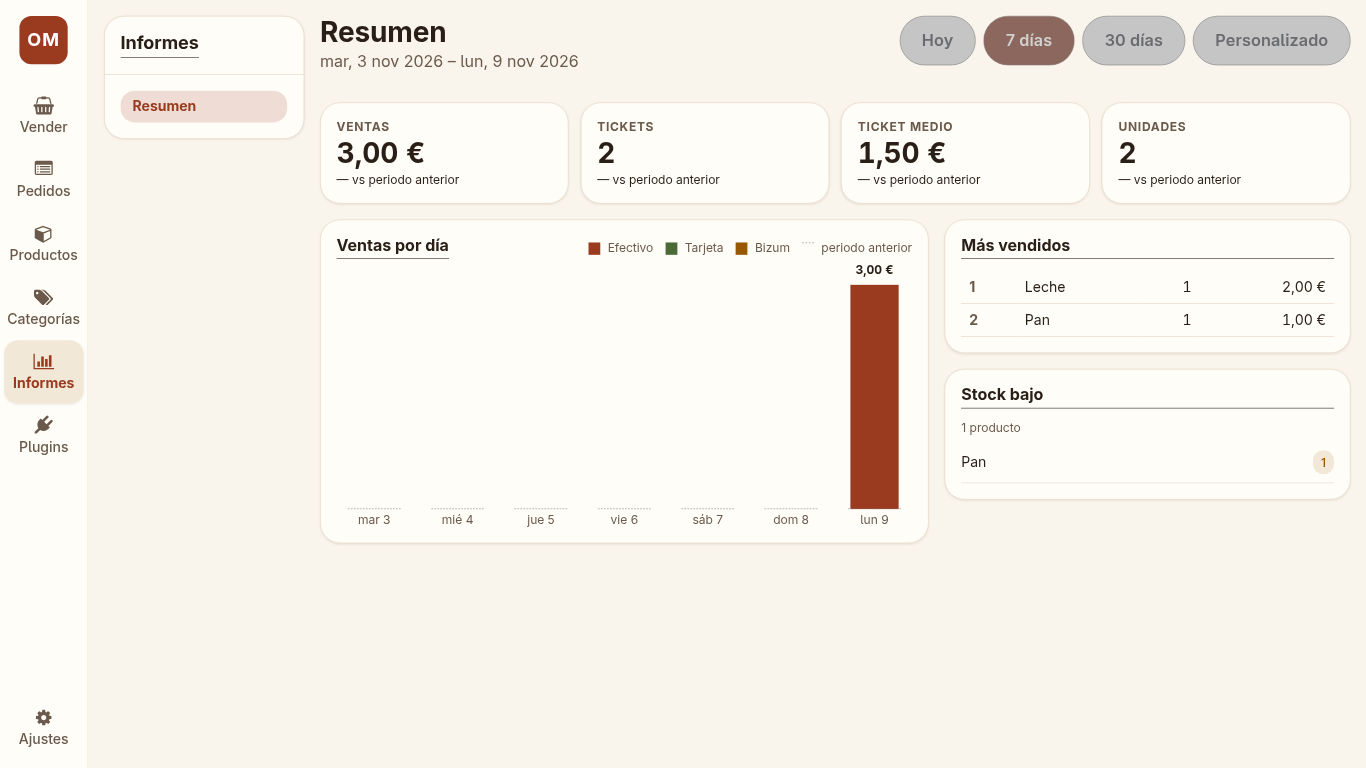
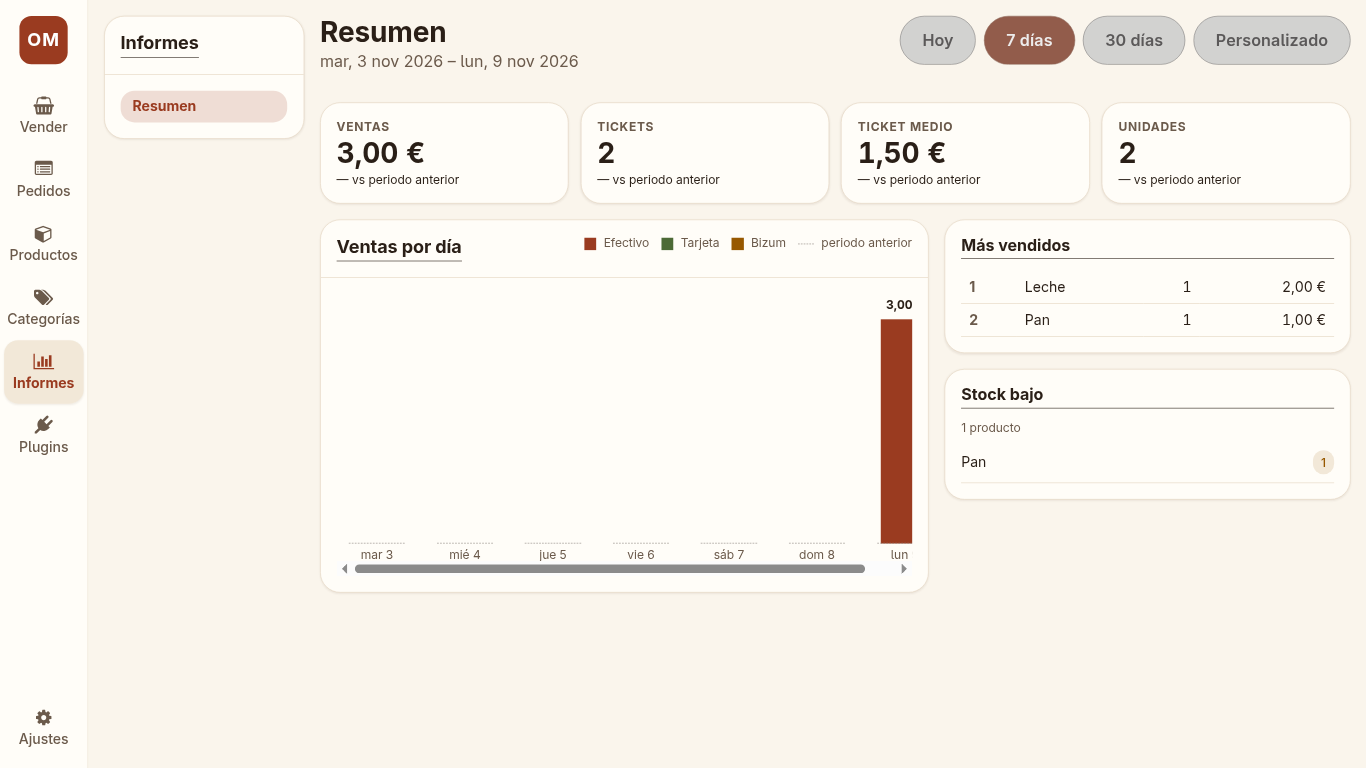
Open on Vender and keep the daily chart inside its card.
A 30-day range was painting every amount and weekday on top of the next column, and the shop was starting on Informes instead of the first rail item.

diff --git a/src/openMarket/user_interface/report/SummaryView.js b/src/openMarket/user_interface/report/SummaryView.js
@@ -4,7 +4,9 @@ import Card from '../components/Card';
 import Badge from '../components/Badge';
 import EmptyState from '../components/EmptyState';
 import {formatMoney} from '../i18n/money';
-import {formatChange, formatDay, formatStock, formatUnits} from './format';
+import {formatChange, formatDay, formatDayNumber, formatStock, formatUnits} from './format';
+
+const COMPACT_DAYS = 12;
 
 /**
  * @param {{summary: object}} props
@@ -21,11 +23,7 @@ export default function SummaryView(props) {
       </div>
       <div className="report-split">
         <div className="report-chart-card">
-          <Card>
-            <div className="report-chart-head">
-              <h2 className="report-section-title">Ventas por día</h2>
-              <Legend />
-            </div>
+          <Card title="Ventas por día" actions={<Legend />}>
             <DailyChart days={summary.days} />
           </Card>
         </div>
@@ -92,24 +90,30 @@ function DailyChart(props) {
   if (!days.length || max === 0) {
     return <EmptyState title="Sin ventas en este periodo" />;
   }
+  const compact = days.length > COMPACT_DAYS;
+  const className = compact ? 'report-columns is-compact' : 'report-columns';
   return (
-    <div className="report-columns">
-      {days.map(day => (
-        <DayColumn key={day.date} day={day} max={max} />
-      ))}
+    <div className="report-chart-scroll">
+      <div className={className}>
+        {days.map(day => (
+          <DayColumn key={day.date} day={day} max={max} compact={compact} />
+        ))}
+      </div>
     </div>
   );
 }
 
 /**
- * @param {{day: {date: string, cashCents: number, cardCents: number, bizumCents: number, previousTotalCents: number}, max: number}} props
+ * @param {{day: {date: string, cashCents: number, cardCents: number, bizumCents: number, previousTotalCents: number}, max: number, compact: boolean}} props
  */
 function DayColumn(props) {
   const day = props.day;
   const total = dayTotal(day);
+  const amount = total ? formatMoney(Money.ofCents(total)) : '';
+  const label = props.compact ? formatDayNumber(day.date) : formatDay(day.date);
   return (
-    <div className="report-column">
-      <p className="report-column-total">{total ? formatMoney(Money.ofCents(total)) : ' '}</p>
+    <div className="report-column" title={amount ? label + ' ' + amount : label}>
+      {props.compact ? null : <p className="report-column-total">{amount || ' '}</p>}
       <div className="report-plot">
         <div className="report-stack">
           <Segment className="report-segment-bizum" cents={day.bizumCents} max={props.max} />
@@ -118,7 +122,7 @@ function DayColumn(props) {
         </div>
         <div className="report-previous" style={{bottom: percent(day.previousTotalCents, props.max)}} />
       </div>
-      <p className="report-column-day">{formatDay(day.date)}</p>
+      <p className="report-column-day">{label}</p>
     </div>
   );
 }

diff --git a/src/openMarket/user_interface/style/components/reports.scss b/src/openMarket/user_interface/style/components/reports.scss
@@ -113,6 +113,21 @@
   min-width: 0;
 }
 
+.report-chart-card .om-card {
+  min-width: 0;
+  overflow: hidden;
+}
+
+.report-chart-card .om-card-header {
+  align-items: flex-start;
+}
+
+.report-chart-card .om-card-actions {
+  margin-left: auto;
+  justify-content: flex-end;
+  max-width: 100%;
+}
+
 .report-side {
   flex: 1;
   min-width: 0;
@@ -121,45 +136,56 @@
   gap: var(--om-space-4);
 }
 
-.report-chart-head,
-.report-legend {
-  display: flex;
-  flex-wrap: wrap;
-  align-items: center;
-  justify-content: space-between;
-  gap: var(--om-space-2) var(--om-space-3);
-}
-
 .report-section-title {
   margin: 0 0 var(--om-space-3);
   font-size: var(--om-font-size-md);
 }
 
-.report-chart-head .report-section-title {
-  margin: 0;
-}
-
 .report-legend {
+  display: flex;
+  flex-wrap: wrap;
   justify-content: flex-end;
+  align-items: center;
+  gap: var(--om-space-2) var(--om-space-3);
   margin: 0;
   padding: 0;
   list-style: none;
   color: var(--om-color-text-muted);
 }
 
+.report-legend li {
+  white-space: nowrap;
+}
+
+.report-chart-scroll {
+  min-width: 0;
+  overflow-x: auto;
+}
+
 .report-columns {
   display: flex;
+  width: max-content;
+  min-width: 100%;
   gap: var(--om-space-2);
   align-items: flex-end;
 }
 
+.report-columns.is-compact {
+  gap: var(--om-space-1);
+}
+
 .report-column {
-  flex: 1;
-  min-width: 0;
+  flex: 1 0 calc(var(--om-space-8) * 2);
+  min-width: calc(var(--om-space-8) * 2);
   display: flex;
   flex-direction: column;
   align-items: center;
   gap: var(--om-space-1);
+}
+
+.report-columns.is-compact .report-column {
+  flex: 0 0 var(--om-space-6);
+  min-width: var(--om-space-6);
 }
 
 .report-plot {
@@ -176,9 +202,18 @@
   align-items: center;
 }
 
+.report-column-total,
+.report-column-day {
+  width: 100%;
+  overflow: hidden;
+  text-overflow: ellipsis;
+  white-space: nowrap;
+  text-align: center;
+}
+
 .report-segment {
-  width: calc(var(--om-space-8) + var(--om-space-2));
-  max-width: 100%;
+  width: 100%;
+  max-width: calc(var(--om-space-8) + var(--om-space-2));
 }
 
 .report-segment-cash {
@@ -222,6 +257,9 @@
 }
 
 .report-swatch-previous {
+  width: var(--om-space-4);
+  height: 0;
+  background: transparent;
   border-top: var(--om-button-border-width) dashed var(--om-color-border-strong);
 }
 

diff --git a/e2e/shell.spec.js b/e2e/shell.spec.js
@@ -20,16 +20,12 @@ test('navigates from the rail with a click or a shortcut', async () => {
   try {
     await window.setViewportSize({width: 1366, height: 768});
     await expect(window.getByRole('link', {name: 'Saltar al contenido'})).toHaveCount(0);
-    await expect.poll(async () => window.evaluate(() => {
-      const active = document.activeElement;
-      if (!active || active === document.body || active === document.documentElement) {
-        return 'none';
-      }
-      return getComputedStyle(active).outlineStyle;
-    })).toBe('none');
     await expect(window.locator('.header')).toHaveCount(0);
     await expect(window.locator('.app-version')).toHaveCount(0);
     await expect(window.getByRole('heading', {name: 'OpenMarket', exact: true})).toHaveCount(0);
+    await expect(window.getByRole('heading', {name: 'Vender'})).toBeVisible();
+    await expect(window.getByRole('link', {name: 'Vender', exact: true})).toHaveAttribute('aria-current', 'page');
+    await expect(window.getByLabel('Buscar o escanear')).toBeFocused();
     const mark = window.locator('.nav-rail-mark');
     await expect(mark).toHaveText('OM');
     await expect(mark).toHaveAttribute('aria-label', 'OpenMarket');
@@ -59,14 +55,13 @@ test('navigates from the rail with a click or a shortcut', async () => {
     for (const screen of SCREENS) {
       await window.getByRole('link', {name: screen.link, exact: true}).click();
       await expect(window.getByRole('heading', {name: screen.heading})).toBeVisible();
-      if (screen.link === 'Vender') {
-        await expect(window.getByLabel('Buscar o escanear')).toBeFocused();
-      }
       await expect(window.getByRole('link', {name: screen.link, exact: true})).toHaveAttribute('aria-current', 'page');
       await window.screenshot({path: path.join('test-results', `shell-${screen.shot}.png`)});
     }
 
     await expect(window.getByRole('link', {name: 'Takings', exact: true})).toHaveCount(0);
+    await window.getByRole('link', {name: 'Vender', exact: true}).click();
+    await expect(window.getByLabel('Buscar o escanear')).toBeFocused();
 
     await window.getByRole('link', {name: 'Ajustes', exact: true}).click();
     await expect(window.getByRole('heading', {name: 'Ajustes'})).toBeVisible();

diff --git a/src/openMarket/user_interface/routes.js b/src/openMarket/user_interface/routes.js
@@ -1,5 +1,5 @@
 import React from 'react';
-import { Route, IndexRoute, Redirect } from 'react-router';
+import { Route, IndexRedirect, Redirect } from 'react-router';
 import App from './containers/App';
 import HomePage from './home/ReduxConnector';
 import ReportPage from './report/ReduxConnector';
@@ -19,7 +19,8 @@ const showGallery = isGalleryEnabled({
 
 function childRoutes() {
   const routes = [
-    <IndexRoute key="home" component={ReportPage} />,
+    <IndexRedirect key="home" to="/create_order" />,
+    <Route key="informes" path="/informes" component={ReportPage} />,
     <Route key="takings" path="/takings" component={HomePage} />,
     <Route key="create-product" path="/create_product" component={ProductListing} />,
     <Route key="list-products" path="/list_products" component={ProductListing} />,

diff --git a/src/test/openMarket/user_interface/containers/NavRail.spec.js b/src/test/openMarket/user_interface/containers/NavRail.spec.js
@@ -87,7 +87,7 @@ describe('NavRail', () => {
       '#/list_orders',
       '#/list_products',
       '#/categories',
-      '#/',
+      '#/informes',
       '#/plugins',
       '#/settings'
     ]);
@@ -125,7 +125,8 @@ describe('NavRail', () => {
 
   it('marks the active item for the current location', () => {
     expect(currentHref(renderAt('/list_orders'))).to.equal('#/list_orders');
-    expect(currentHref(renderAt('/'))).to.equal('#/');
+    expect(currentHref(renderAt('/informes'))).to.equal('#/informes');
+    expect(anchors(renderAt('/')).filter(anchor => anchor.current)).to.have.length(0);
     expect(anchors(renderAt('/takings')).filter(anchor => anchor.current)).to.have.length(0);
     expect(currentHref(renderAt('/settings'))).to.equal('#/settings');
   });

diff --git a/src/openMarket/user_interface/report/format.js b/src/openMarket/user_interface/report/format.js
@@ -51,6 +51,16 @@ export function formatDay(iso) {
 }
 
 /**
+ * The day of the month, for a chart that has too many columns for a weekday name.
+ * @param {string} iso `YYYY-MM-DD`
+ * @returns {string}
+ */
+export function formatDayNumber(iso) {
+  const match = /^(\d{4})-(\d{2})-(\d{2})/.exec(iso == null ? '' : String(iso));
+  return match ? String(Number(match[3])) : '';
+}
+
+/**
  * @param {number | null | undefined} stock
  * @param {boolean} weighted
  * @returns {string}

diff --git a/src/openMarket/user_interface/containers/NavRail.js b/src/openMarket/user_interface/containers/NavRail.js
@@ -10,9 +10,8 @@ export const NAV_ITEMS = [
   {label: 'Categorías', to: '/categories', icon: 'fa-tags'},
   {
     label: 'Informes',
-    to: '/',
-    icon: 'fa-bar-chart',
-    indexOnly: true
+    to: '/informes',
+    icon: 'fa-bar-chart'
   },
   {label: 'Plugins', to: '/plugins', icon: 'fa-plug'},
   {label: 'Ajustes', to: '/settings', icon: 'fa-cog', end: true}
